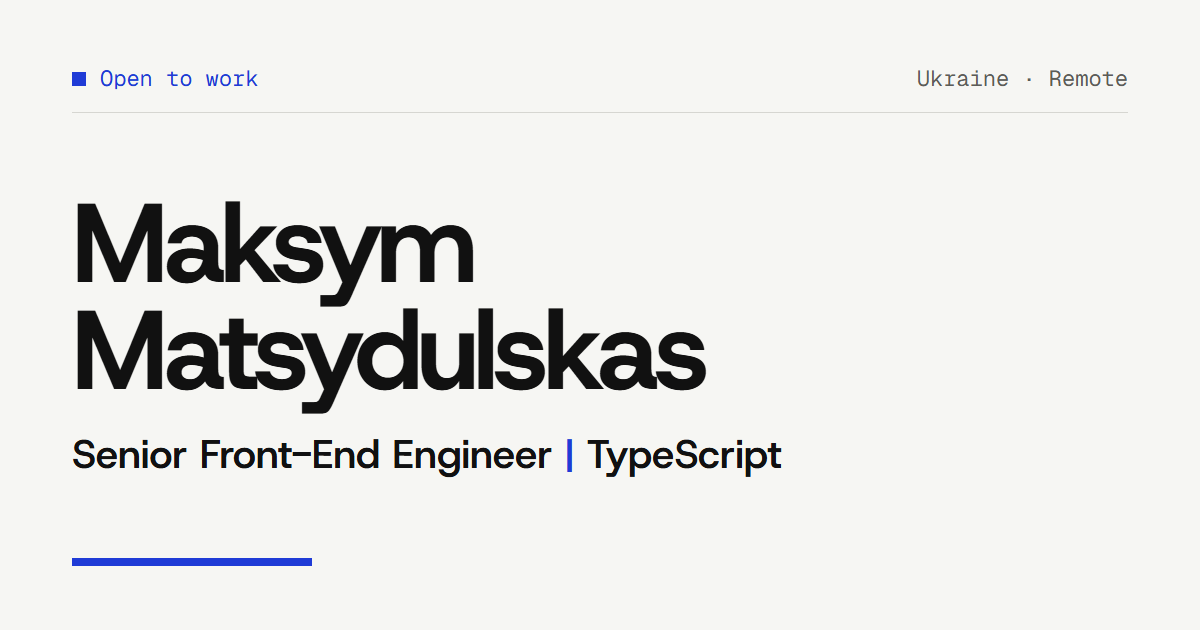
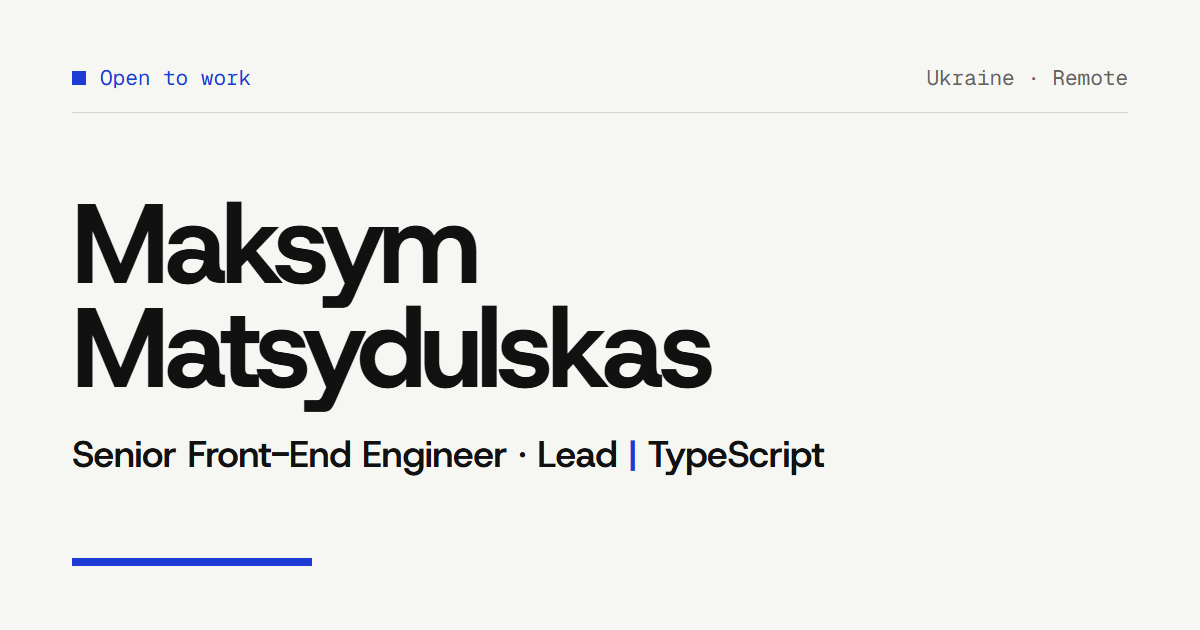
feat: update portfolio content and structure, add new case studies, and enhance layout for better presentation

diff --git a/src/data/profile.ts b/src/data/profile.ts
@@ -1,10 +1,10 @@
 export const profile = {
   name: 'Maksym Matsydulskas',
-  title: 'Senior Front-End Engineer',
+  title: 'Senior Front-End Engineer · Lead',
   focus: 'TypeScript',
   summary:
-    '5+ years in web development across telecom, fintech and B2B SaaS. Front-end lead on an enterprise fiber network platform: architecture, code review, mentoring two developers, and working directly with the client.',
-  lead: 'Front-end lead on an enterprise fiber network platform: architecture, code review, mentoring two developers, and working directly with the client.',
+    'Senior front-end engineer and lead, 5+ years across telecom, fintech and B2B SaaS. Led five apps for a fiber network operator: 0 to 884 unit tests, builds from 26 s to 4 s.',
+  lead: 'Front-end lead across a five-app platform for a fiber network operator. I led a refactor from 0 to 884 unit tests without a feature freeze, cut builds from 26 s to 4 s, and built two TypeScript apps from scratch.',
   spec: [
     { label: 'Experience', value: '5+ yrs' },
     { label: 'Core stack', value: 'TypeScript · Vue 3 / Nuxt · React' },
@@ -41,28 +41,28 @@ export const experience: Job[] = [
     country: 'Israel',
     role: 'Front-End Engineer · front-end lead',
     period: '03/2025 – 10/2026',
-    note: 'Led the front end of an enterprise fiber network management platform; built a ticketing portal and a payment store from scratch.',
+    note: 'Front-end lead across five apps of an enterprise fiber network platform: admin panel, customer portal, ticket portal, payment store and multi-tenant call center. Built the ticket portal and payment store from scratch in TypeScript and moved two apps from Vue CLI to Vite.',
   },
   {
     company: 'SDA',
     country: 'Estonia',
     role: 'Front-End Engineer · part-time contract',
     period: '03/2026 – 07/2026',
-    note: 'Sole front-end developer on a 250+ component B2B platform with six permission roles.',
+    note: 'Brought in to take over a 250+ component B2B platform from the previous developer, as its only dedicated front-end developer. Built sign-in and access for six permission roles, the product editor and the front-end architecture docs.',
   },
   {
     company: 'EVE.calls',
     country: 'USA',
     role: 'Front-End Engineer · part-time',
     period: '12/2024 – 03/2025',
-    note: 'Sole front-end developer on a node-based editor for AI voice-call scenarios.',
+    note: 'Sole front-end developer extending a node-based editor for AI voice-call scenarios: added extract-and-compare branching to speech recognition and an SMS node.',
   },
   {
     company: 'Onepointcollab / OneVOIPlanet',
     country: 'Ukraine',
     role: 'Front-End Developer',
     period: '09/2023 – 06/2024',
-    note: 'One of two core front-end developers on a cloud telephony customer cabinet: 80+ components across 8 modules.',
+    note: 'One of two core front-end developers on a cloud telephony customer cabinet: 80+ components across 8 modules, CRM integrations with SalesDrive, KeyCRM and NetHunt, and the upgrade to Vite 5 and Vue 3.4.',
   },
   {
     company: 'E-groshi',

diff --git a/PRODUCT.md b/PRODUCT.md
@@ -17,15 +17,15 @@ Both readers have to succeed on the same page. The scan layer must not hide the 
 
 ## Product Purpose
 
-This is the personal portfolio of Maksym Matsydulskas, a Senior Front-End Engineer (TypeScript), based in Ukraine and working remotely (UTC+2). The goal is to get hired. A full-time remote senior or lead front-end role comes first, and contract work is also welcome. Success is either of two outcomes, and both count. A recruiter downloads the CV to put into their hiring pipeline, which is why Download CV is the primary action on every contact group. Or a reader makes contact (LinkedIn replies fastest, then email or Telegram) to set up a conversation.
+This is the personal portfolio of Maksym Matsydulskas, a Senior Front-End Engineer and front-end lead (TypeScript), based in Ukraine and working remotely (UTC+2). The goal is to get hired. A full-time remote senior or lead front-end role comes first, and contract work is also welcome. Success is either of two outcomes, and both count. A recruiter downloads the CV to put into their hiring pipeline, which is why Download CV is the primary action on every contact group. Or a reader makes contact (LinkedIn replies fastest, then email or Telegram) to set up a conversation.
 
 ## Positioning
 
 He is a front-end lead who owns hard product UI from start to finish and leaves the codebase better than he found it. Four things together set him apart, each backed by a real case:
 
-- **Fixes messy codebases**: led a six-week, 66-ticket refactor with no feature freeze. Unit tests went from 0 to 884, API error handling moved out of 337 files into one helper, and the payment-page bundle dropped from 70.5 to 10.2 kB.
-- **Ships complex product UI**: a drag-and-drop dashboard builder, a node-based editor for voice-call scenarios, an embeddable widget for third-party sites, and a B2B platform with 250+ components.
-- **Owns it end to end**: WeekFit, an iOS app built alone from the mobile client to the database and typed end to end.
+- **Fixes messy codebases**: led a six-week refactor with no feature freeze. Unit tests went from 0 to 884, API error handling moved out of 337 files into one helper, the payment-form chunk dropped from 70.5 to 10.2 kB, and production builds went from 26 s to 4 s after the Vite 8 upgrade. Moved two apps from Vue CLI to Vite, and took over SDA's B2B platform from a previous developer.
+- **Ships complex product UI**: a drag-and-drop dashboard builder with 22 widgets, an embeddable widget for third-party sites, and a B2B platform with 250+ components.
+- **Owns it end to end**: a ticket portal and a payment-store PWA built alone from scratch in strict TypeScript, and WeekFit, an iOS app built alone from the mobile client to the database and typed end to end.
 - **Leads and mentors**: front-end lead with code review, mentoring two developers, and working directly with the client.
 
 ## Operating Context
@@ -45,13 +45,14 @@ He is a front-end lead who owns hard product UI from start to finish and leaves 
 
 ## Brand Commitments
 
-- Name and title: "Maksym Matsydulskas — Senior Front-End Engineer | TypeScript".
+- Name and title: "Maksym Matsydulskas — Senior Front-End Engineer · Lead | TypeScript".
 - Voice: plain, factual, first person when it needs to be, and led by numbers. Claims are specific and measured (counts, sizes, before and after), never adjectives.
 - Status line: "Open to work".
 
 ## Evidence on Hand
 
-- Four case studies in `src/content/cases/`: architecture overhaul, dashboard builder, embeddable callback widget, WeekFit.
+- Five case studies in `src/content/cases/`: architecture overhaul, dashboard builder, ticket portal and payment store, embeddable callback widget, WeekFit.
+- `EVIDENCE.md` at the project root: every site claim checked against the work repositories, with commits and counts.
 - Experience at seven organisations, 2021–2026, in `src/data/profile.ts`.
 - Three live side projects: Tech graph, the "Python-1" Station browser game, and a challenge tracker (Rust/WASM PWA).
 - `public/Maksym_Matsydulskas_Resume.pdf`, `src/assets/photo.jpg`, `public/og.png`, `public/favicon.svg`.

diff --git a/src/content/cases/architecture-overhaul.md b/src/content/cases/architecture-overhaul.md
@@ -4,11 +4,11 @@ title: Architecture overhaul without a feature freeze
 company: CONNECT 972
 period: 2025 – 2026
 role: Front-end lead
-summary: A six-week, 66-ticket refactor of an enterprise fiber network platform while features kept shipping.
+summary: A six-week refactor of an enterprise fiber network platform while features kept shipping.
 metric:
   value: 0 → 884
   label: unit tests in CI
-stack: [Vue 3, TypeScript, Pinia, Vuex, Vitest, Playwright, Vite, GitLab CI]
+stack: [Vue 3, JavaScript, Vuex, Vitest, Vite, Ant Design Vue, oxlint, GitLab CI]
 ---
 
 ## Context
@@ -17,21 +17,22 @@ An enterprise fiber network management platform: the operational system a teleco
 
 ## Problem
 
-The codebase had no test runner, no linting standards and a lot of copy-paste. API error handling lived in 337 files, 83 paginated tables each carried their own store logic, and date handling was spread across 152 files and two libraries.
+The codebase had no test runner, no linting standards and a lot of copy-paste. API error handling lived in 337 files and 83 paginated tables each carried their own store logic. Dates went through moment in 28 files and dayjs in 52, plus a moment-based mixin that 66 files depended on.
 
 ## What I did
 
-- Led a six-week, 66-ticket refactor with no feature freeze.
+- Led a six-week refactor with no feature freeze, in small branches so every review stayed small.
 - Introduced the project's first test runner and CI checks that block the old patterns.
 - Moved API error handling from 337 files into one lint-guarded helper.
 - Moved 83 paginated tables onto one store factory.
-- Consolidated date logic into one module and removed moment.js.
-- Upgraded Ant Design v3 → v4 and Vite 5 → 8, removed 20,000+ lines of dead code with Knip, and set up oxlint, oxfmt and GitLab CI/CD.
+- Moved 188 files onto one date module and removed moment.js.
+
+Earlier on the project I migrated the build from Vue CLI (webpack) to Vite and later to Vite 8, upgraded Ant Design v3 → v4, removed 20,000+ lines of dead code, and set up oxlint, oxfmt, Knip and GitLab CI/CD.
 
 ## Result
 
 - 0 → 884 Vitest unit tests running in CI.
-- −34% state-layer code.
-- Payment-page bundle 70.5 → 10.2 kB.
-- 40% faster builds.
-- 125 documented defects fixed, including user data surviving logout in a multi-tenant app.
+- 5,300 lines of store code removed.
+- Payment-form chunk 70.5 → 10.2 kB (23.9 → 4.1 kB gzipped).
+- Production builds from 26 s to 4 s after the Vite 8 upgrade.
+- Defects found along the way fixed, including user data surviving logout in a multi-tenant app.

diff --git a/src/content/cases/embeddable-callback-widget.md b/src/content/cases/embeddable-callback-widget.md
@@ -1,19 +1,19 @@
 ---
-order: 3
+order: 4
 title: An embeddable callback widget for third-party sites
 company: OneVOIPlanet
 period: 2023 – 2024
 role: Front-end developer
-summary: A script any website can embed, isolated from the host page, that gets a visitor a call back within 30 seconds.
+summary: A script any website can embed, isolated from the host page, that gets a visitor a call back from the customer's team.
 metric:
-  value: 30 s
-  label: to an automated call-back
+  value: 80+
+  label: components across 8 modules
 stack: [Vue 3, TypeScript, Vite, Socket.IO, Chrome Extensions]
 ---
 
 ## Context
 
-The customer cabinet of a cloud telephony provider. I was one of two core front-end developers and built 80+ components and pages across 8 product modules.
+The customer cabinet of a cloud telephony provider. I was one of two core front-end developers and built 80+ components and pages across 8 product modules, including widgets, call-from-site, call processing, blacklists, SIP trunks and verification.
 
 ## Problem
 
@@ -26,6 +26,8 @@ Customers wanted to put a callback button on their own websites. The widget had 
 - An appearance builder for the callback widget: button style, size, animation and colours, corner position and offsets, and separate texts for working hours, after hours, leaving the site and deferred calls.
 - A call-from-site widget and a softphone shipped as a Chrome extension with its own Vite build, with real-time call-status handling.
 
+Around the widgets I built KPI calculation with xlsx export and the call journal, CRM integrations with SalesDrive, KeyCRM and NetHunt, Telegram, Firebase push notifications, GeoIP country detection and Google sign-in, and upgraded the project to Vite 5 and Vue 3.4.
+
 ## Result
 
-A visitor on any customer's site gets an automated call-back within 30 seconds.
+A customer pastes one snippet into their site, and visitors can request a call back or call straight from the page, styled to match the site and with statistics for every widget.

diff --git a/src/content/cases/ticket-portal-and-payment-store.md b/src/content/cases/ticket-portal-and-payment-store.md
@@ -1,0 +1,28 @@
+---
+order: 3
+title: Two TypeScript apps, built alone from scratch
+company: CONNECT 972
+period: 2025 – 2026
+role: Sole front-end developer
+summary: A ticket portal for technicians and a payment-store PWA for payment points, each built from scratch in strict TypeScript.
+metric:
+  value: "2"
+  label: TypeScript apps built alone from scratch
+stack: [Vue 3, TypeScript, Pinia, Quasar, Vite, Vitest, PWA]
+---
+
+## Context
+
+The fiber operator's platform needed two apps outside the admin panel: one for technicians working through support tickets, and one for payment points taking money from customers. Both had to run on phones, serve several tenant companies, and work in Arabic, Hebrew, English and Russian.
+
+## What I did
+
+- Started both projects and built them alone: 290 of the 317 commits across them are mine, and a teammate set up deployment.
+- Ticket portal: a ticket list filtered by assignee, priority and scheduled date; ticket details with the customer, their services, subscriptions and invoices; photos compressed in the browser before upload; the customer's signature; rebooting the customer's router and changing its password; asking the customer for their location by SMS.
+- Payment store: customer search by name, phone or national ID; balance top-ups and withdrawals; transfers with limits and commission, signed by the customer; reports and PDF receipts sent by email.
+- Shared across both: two-factor sign-in, runtime configuration so one build serves every tenant, four languages with right-to-left layout for Arabic and Hebrew, and installable PWAs.
+- Strict TypeScript checked by vue-tsc on every build, Vitest, oxlint, oxfmt, Knip and CI format checks.
+
+## Result
+
+Both apps are in production, owned from the first commit: the technician's daily ticket work and the payment point's cash flow each run through one focused, installable app in four languages.

diff --git a/src/content/cases/dashboard-builder.md b/src/content/cases/dashboard-builder.md
@@ -4,21 +4,21 @@ title: A customizable, extensible dashboard builder
 company: CONNECT 972
 period: 2025 – 2026
 role: Front-end lead
-summary: Drag-and-drop dashboards of invoices, connections and revenue that tenants and managers arrange for themselves.
+summary: Drag-and-drop dashboards of customers, routers, services and revenue that tenants and managers arrange for themselves.
 metric:
-  value: 10+
-  label: widget types
-stack: [Vue 3, TypeScript, Pinia, GridStack, ApexCharts]
+  value: "22"
+  label: widgets in 5 card types
+stack: [Vue 3, JavaScript, Vuex, GridStack, ApexCharts]
 ---
 
 ## Context
 
-An enterprise fiber network platform used by many tenant companies. Tenants and their managers needed to see the state of their business at a glance: client invoices, connections, paid revenue and other financial and operational metrics. Each company, and each person in it, cared about a different set of numbers.
+An enterprise fiber network platform used by many tenant companies. Tenants and their managers needed to see the state of their business at a glance: new and total customers, installed routers, active and terminated services, revenue and churn. Each company, and each person in it, cared about a different set of numbers.
 
 ## What I did
 
 - Built user-customizable drag-and-drop dashboards on GridStack.
-- Shipped 10+ widget types covering client invoices, connections, paid revenue and other business metrics, charted with ApexCharts.
+- Shipped 22 widgets in 5 card types (two metric cards, area, donut and line charts, plus widget groups) covering customers, routers, services, revenue, churn and payment methods, charted with ApexCharts.
 - Synced each user's layout to the backend.
 
 ## Result

diff --git a/README.md b/README.md
@@ -1,6 +1,6 @@
 # Maksym Matsydulskas — portfolio
 
-Personal site: who I am, four case studies, experience, and a link to the full skills map in Tech graph.
+Personal site: who I am, five case studies, experience, and a link to the full skills map in Tech graph.
 
 **Why Astro:** content site → static, zero JS. Interactive app → React (see Tech graph).
 

diff --git a/src/content/cases/weekfit.md b/src/content/cases/weekfit.md
@@ -1,5 +1,5 @@
 ---
-order: 4
+order: 5
 title: WeekFit — an offline-first gym notebook
 company: Personal product
 period: "2026"
